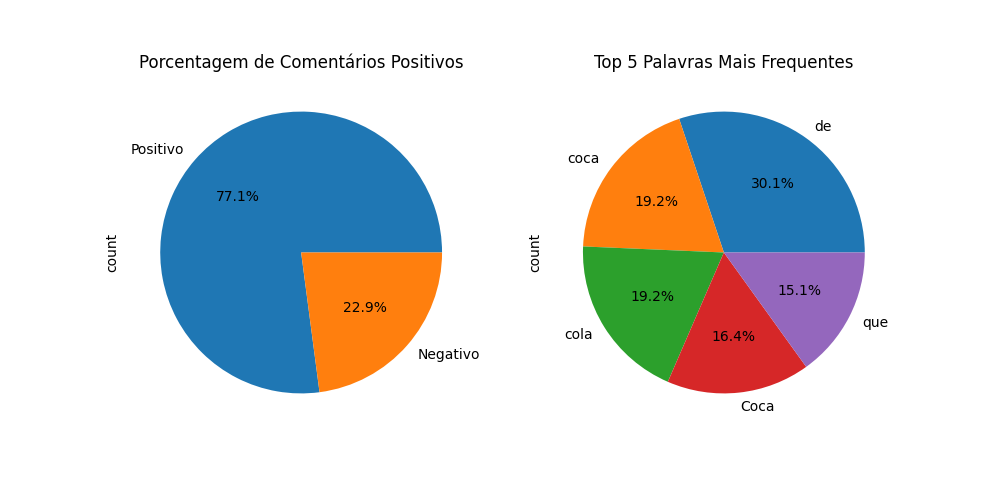
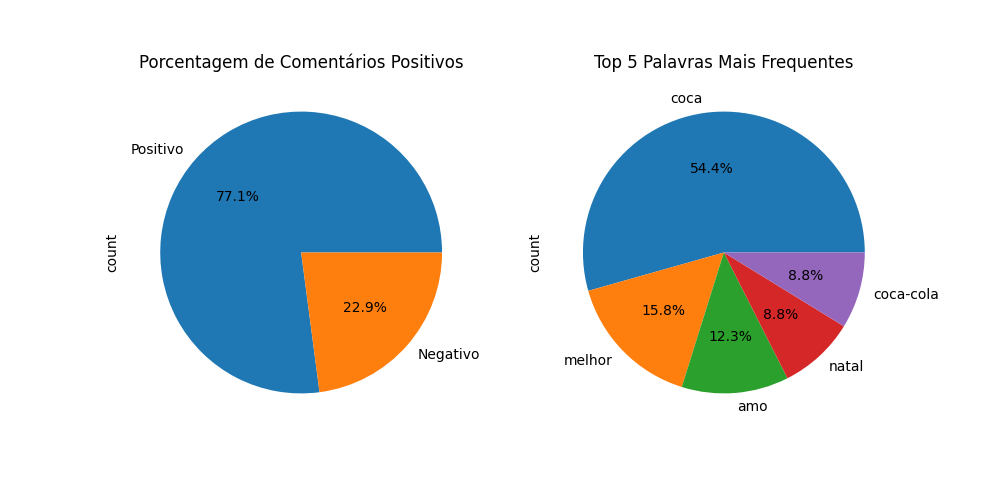
Melhorando a relevância das palavras mostradas no gráfico

diff --git a/templates/index.html b/templates/index.html
@@ -69,6 +69,16 @@
             height: auto;
             margin-top: 20px;
         }
+
+        .success-message {
+            color: #008000;
+            /* Verde */
+        }
+
+        .error-message {
+            color: #FF0000;
+            /* Vermelho */
+        }
     </style>
 </head>
 
@@ -135,11 +145,11 @@
                 const result = await response.json();
 
                 // Exibir mensagem de treinamento abaixo do formulário
-                treinamentoMessage.innerHTML = `<p>${result.message}</p>`;
+                treinamentoMessage.innerHTML = `<p class="${result.status === 'success' ? 'success-message' : 'error-message'}">${result.message}</p>`;
             } catch (error) {
                 console.error('Erro:', error);
                 // Exibir mensagem de erro abaixo do formulário
-                treinamentoMessage.innerHTML = `<p>Erro ao treinar o modelo. Por favor, tente novamente.</p>`;
+                treinamentoMessage.innerHTML = `<p class="error-message">Erro ao treinar o modelo. Por favor, tente novamente.</p>`;
             }
 
             // Evitar que o formulário redirecione

diff --git a/classifier.py b/classifier.py
@@ -1,8 +1,18 @@
 import os
 import pandas as pd
 import matplotlib.pyplot as plt
+import nltk
+from nltk.corpus import stopwords
+from nltk.stem import WordNetLemmatizer
 from sklearn.feature_extraction.text import CountVectorizer
 from sklearn.naive_bayes import MultinomialNB
+
+nltk.download('stopwords')
+nltk.download('wordnet')
+
+stop_words = set(stopwords.words('portuguese'))
+stop_words.update(["pra", "cola"])  # Adicionando "pra" e "cola" à lista de stopwords
+lemmatizer = WordNetLemmatizer()
 
 class Classifier:
     def __init__(self, app):
@@ -37,11 +47,14 @@ class Classifier:
         plt.title('Porcentagem de Comentários Positivos')
 
         plt.subplot(1, 2, 2)
-        words_freq = pd.Series(' '.join(data['Comentário']).split()).value_counts()[:5]
+        # Pré-processamento: Remover stopwords e lematização
+        comments = ' '.join(data['Comentário']).lower()
+        words_lemmatized = [lemmatizer.lemmatize(word) for word in comments.split() if word not in stop_words]
+        words_freq = pd.Series(words_lemmatized).value_counts()[:5]
+
         words_freq.plot.pie(autopct='%1.1f%%')
         plt.title('Top 5 Palavras Mais Frequentes')
 
         img_path = "static/image/result.png"  # Alteração no caminho da imagem
         plt.savefig(os.path.join(self.app.root_path, img_path))
         return img_path
-

diff --git a/app.py b/app.py
@@ -15,9 +15,9 @@ def treinar_modelo():
     try:
         file = request.files['file']
         classifier.treinar_modelo(file)
-        return jsonify({'message': 'Treinamento concluído com sucesso!'})
+        return jsonify({'message': 'Treinamento concluído com sucesso!', 'status': 'success'})
     except Exception as e:
-        return jsonify({'error': str(e)})
+        return jsonify({'error': str(e), 'status': 'error'})
 
 @app.route('/classificar', methods=['POST'])
 def classificar_comentarios():
